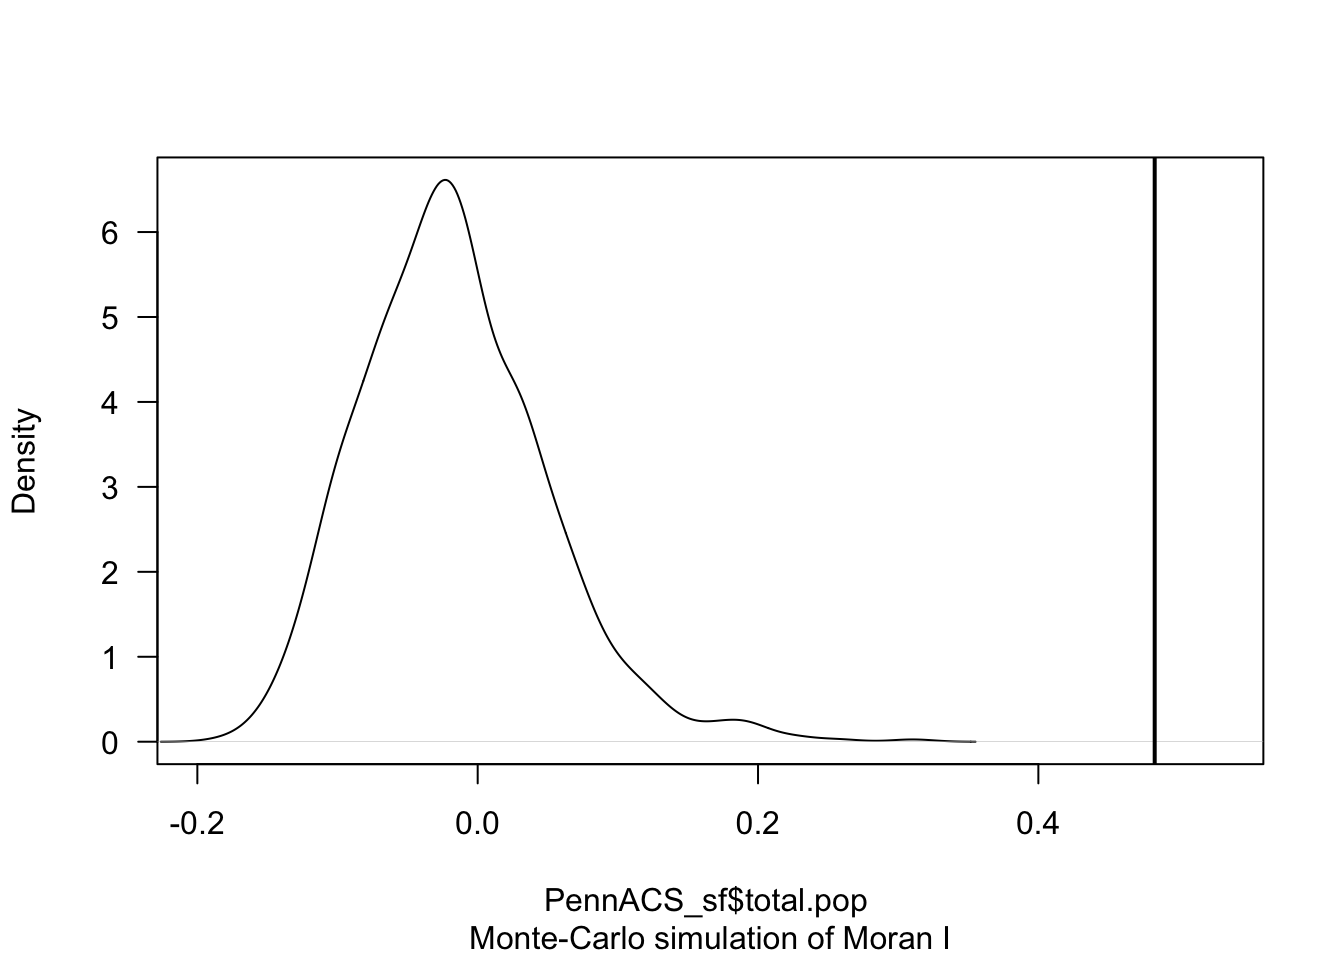
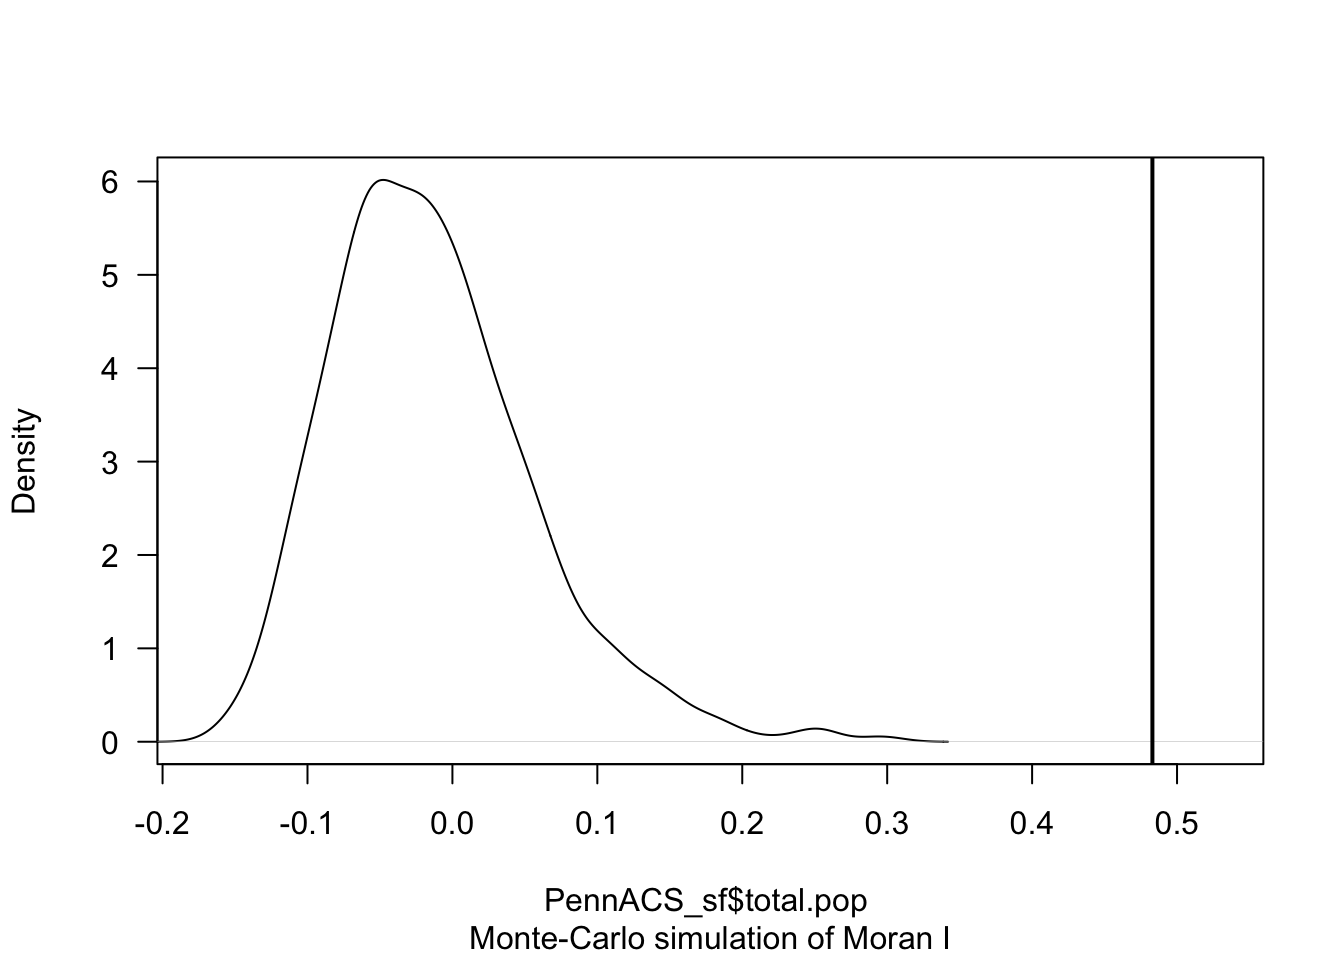
second plot

diff --git a/docs/pg_364Lab5_MoranLISA.html b/docs/pg_364Lab5_MoranLISA.html
@@ -1467,10 +1467,63 @@ And cold spots around the north west (counties that have <em>lower</em>
 than average populations compared surrounded by counties with
 <em>lower</em> than average populations. However, there are not any
 significant spatial outliers (HIGH-LOW) or (LOW-HIGH).</p>
-<p>I have marked these on the Moran’s scatterplot - see code below.
-Firstly without taking into account significance, then secondly, taking
-into account the p-value (e.g. no</p>
-<p>CODE TO COME, REFRESH YOUR PAGE!</p>
+<p>I have marked these on the Moran’s scatterplot - see code below. I am
+again, only coloring in values that are unusual (and have a low p-value)
+. YOU NEED TO CHANGE THE COLUMN NAME IN STEPS 1, 2 and 4 FOR IT TO
+WORK</p>
+<pre class="r"><code>#--------------------------------------------------------
+# Step 1: Calculate the spatial lag
+# CHANGE total.pop TO YOUR COLUMN NAME
+PennACS_sf$spatial_lag &lt;- lag.listw(QueenWeights, 
+                                    PennACS_sf$total.pop,  # change this
+                                    zero.policy = TRUE)
+
+#--------------------------------------------------------
+# Step 2: Create plot data with category color
+# CHANGE total.pop TO YOUR COLUMN NAME
+plot_data &lt;- data.frame(
+  total_pop = scale(PennACS_sf$total.pop),  # change this
+  spatial_lag = scale(PennACS_sf$spatial_lag),
+  Category = factor(PennACS_sf$Ii, levels = levels(PennACS_sf$Ii)))
+
+
+#--------------------------------------------------------
+# Step 3. Define the color palette for each category explicitly
+pal2 &lt;- c(&quot;High-High&quot; = &quot;#FF0000&quot;, 
+          &quot;Low-Low&quot; = &quot;#0000FF&quot;, 
+          &quot;Low-High&quot; = &quot;#a7adf9&quot;, 
+          &quot;High-Low&quot; = &quot;#f4ada8&quot;, 
+          &quot;&gt;0.05 corrected&quot; = &quot;#ededed&quot;)
+
+
+#--------------------------------------------------------
+# Step 4. Add dummy points for missing categories
+missing_levels &lt;- setdiff(levels(plot_data$Category), unique(plot_data$Category))
+
+plot_data &lt;- rbind(plot_data,
+                   data.frame(total_pop = rep(NA, length(missing_levels)), 
+                              spatial_lag = rep(NA, length(missing_levels)),  
+                              Category = factor(missing_levels, 
+                                                 levels = levels(plot_data$Category)) ))
+
+
+#--------------------------------------------------------
+# Step 4: Create the Moran plot with ggplot2, ensuring all levels appear in the legend
+ggplot(plot_data, aes(x = total_pop, # change this
+                      y = spatial_lag, 
+                      color = Category)) + 
+  geom_point(size = 2, na.rm = TRUE) +  # `na.rm = TRUE` will skip NA points in plotting
+  scale_color_manual(values = pal2, name = &quot;Category&quot;, drop = FALSE) +  # Ensures all categories appear in the legend
+  labs(x = &quot;Normalized Total Population&quot;, 
+       y = &quot;Normalized Spatial Lag of Total Population&quot;, 
+       title = &quot;Normalized Moran Plot with Category-Based Coloring&quot;) +
+  theme_minimal() +
+  geom_vline(xintercept = 0, linetype = &quot;dotted&quot;, color = &quot;black&quot;) +  
+  geom_hline(yintercept = 0, linetype = &quot;dotted&quot;, color = &quot;black&quot;) </code></pre>
+<p><img src="pg_364Lab5_MoranLISA_files/figure-html/unnamed-chunk-29-1.png" width="672" /></p>
+<p>So here you can see that although there were counties classed as
+spatial outliers - they weren’t unusual enough to warrant being shown on
+the the map.</p>
 <p><br><br></p>
 </details>
 <p><br></p>
